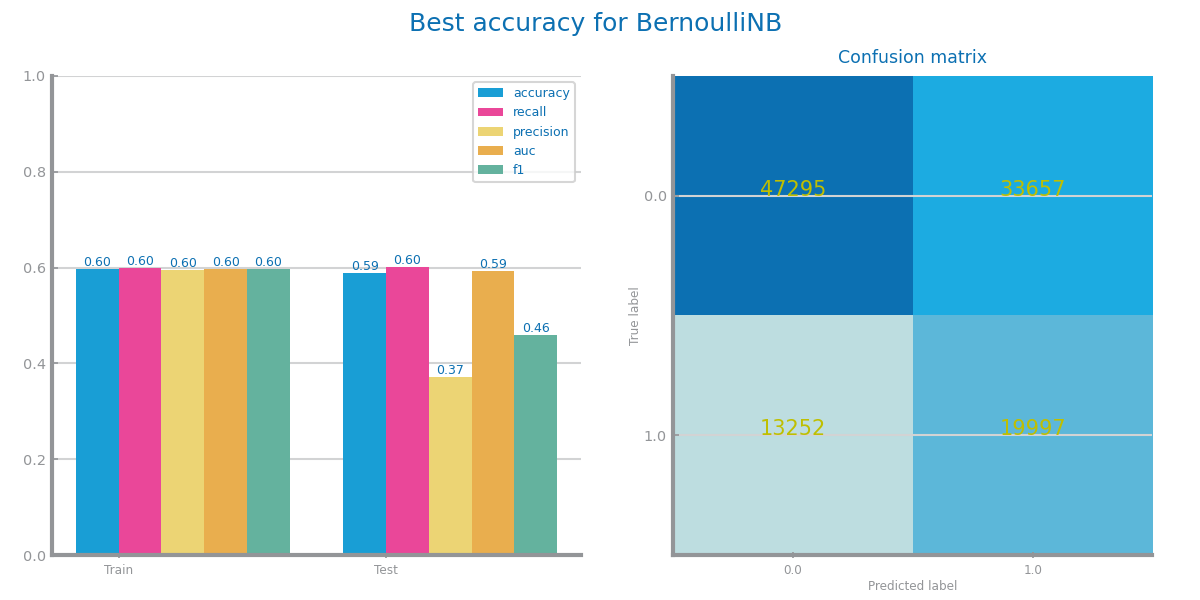
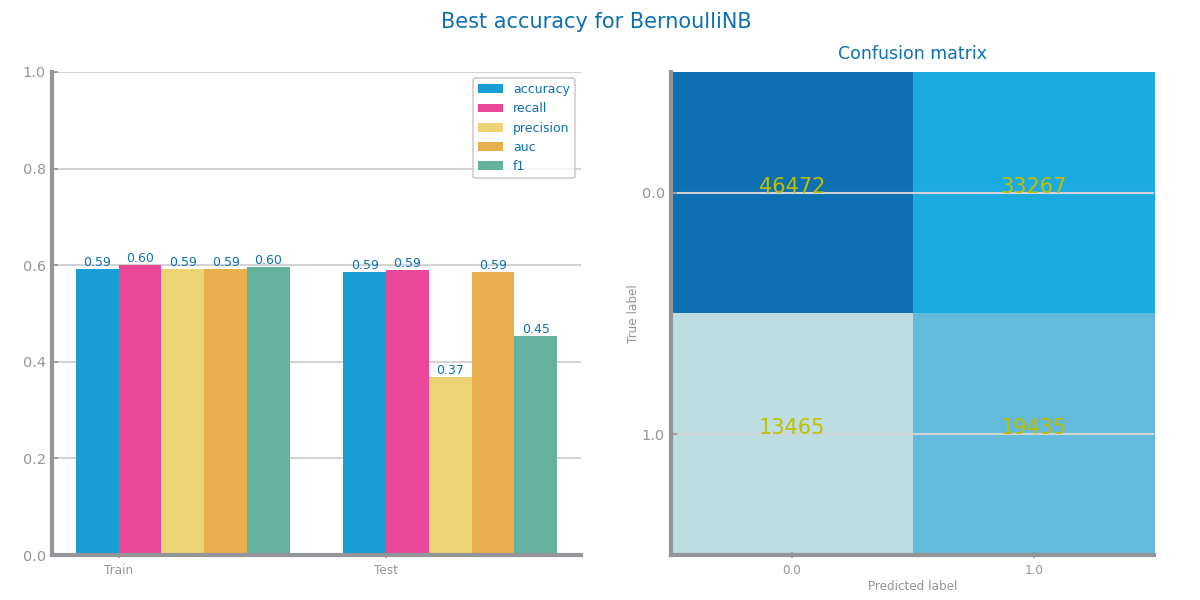
feat: NB without sampling.

diff --git a/classification/models/credit_score/naive_bayes.py b/classification/models/credit_score/naive_bayes.py
@@ -8,7 +8,7 @@ test_filename = "../../data/credit_score/processed_data/class_credit_score_test_
 credit_score_file_tag: str = "class_credit_score"
 target = "Credit_Score"
 
-run_sampling = True
+run_sampling = False
 sampling_amount = 0.01 if run_sampling else 1
 
 sample_tag = f"_1_{int(1 / sampling_amount)}th" if run_sampling else ""

diff --git a/classification/models/pos_covid/naive_bayes.py b/classification/models/pos_covid/naive_bayes.py
@@ -9,7 +9,7 @@ test_filename = "../../data/pos_covid/processed_data/class_pos_covid_test_lowvar
 pos_covid_file_tag: str = "class_pos_covid"
 target = "CovidPos"
 
-run_sampling = True
+run_sampling = False
 sampling_amount = 0.01 if run_sampling else 1
 
 sample_tag = f"_1_{int(1 / sampling_amount)}th" if run_sampling else ""
